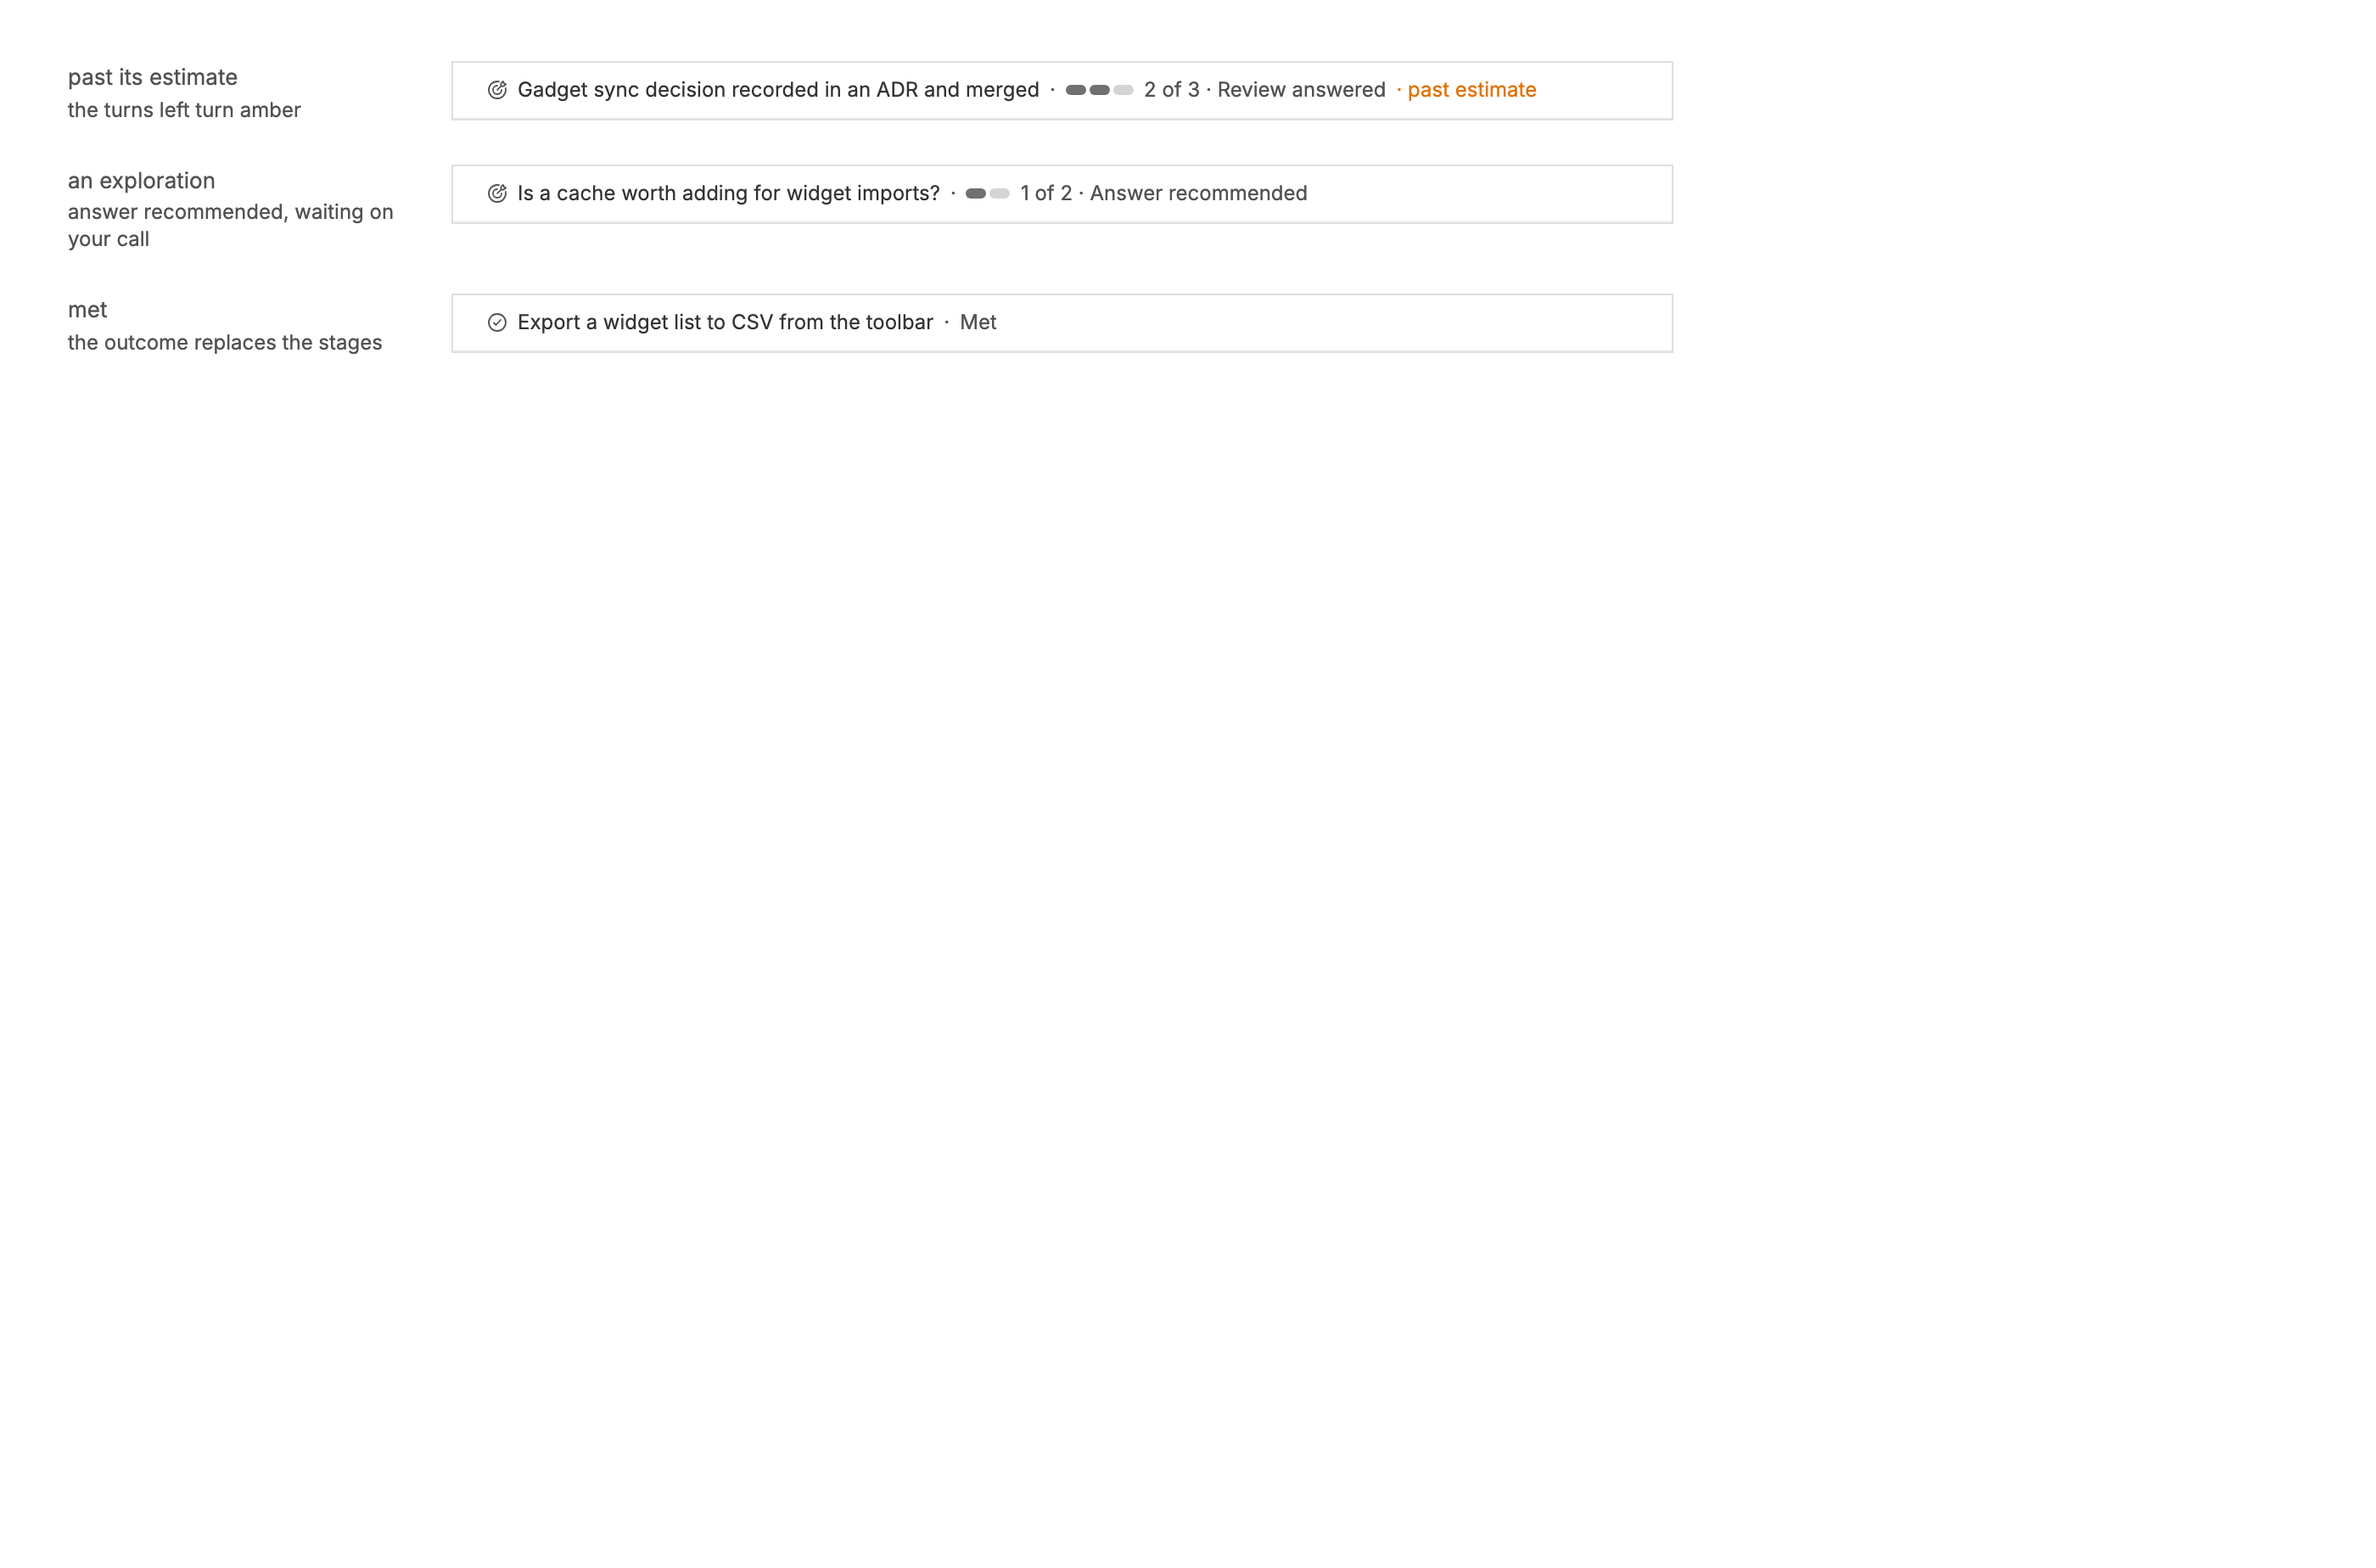
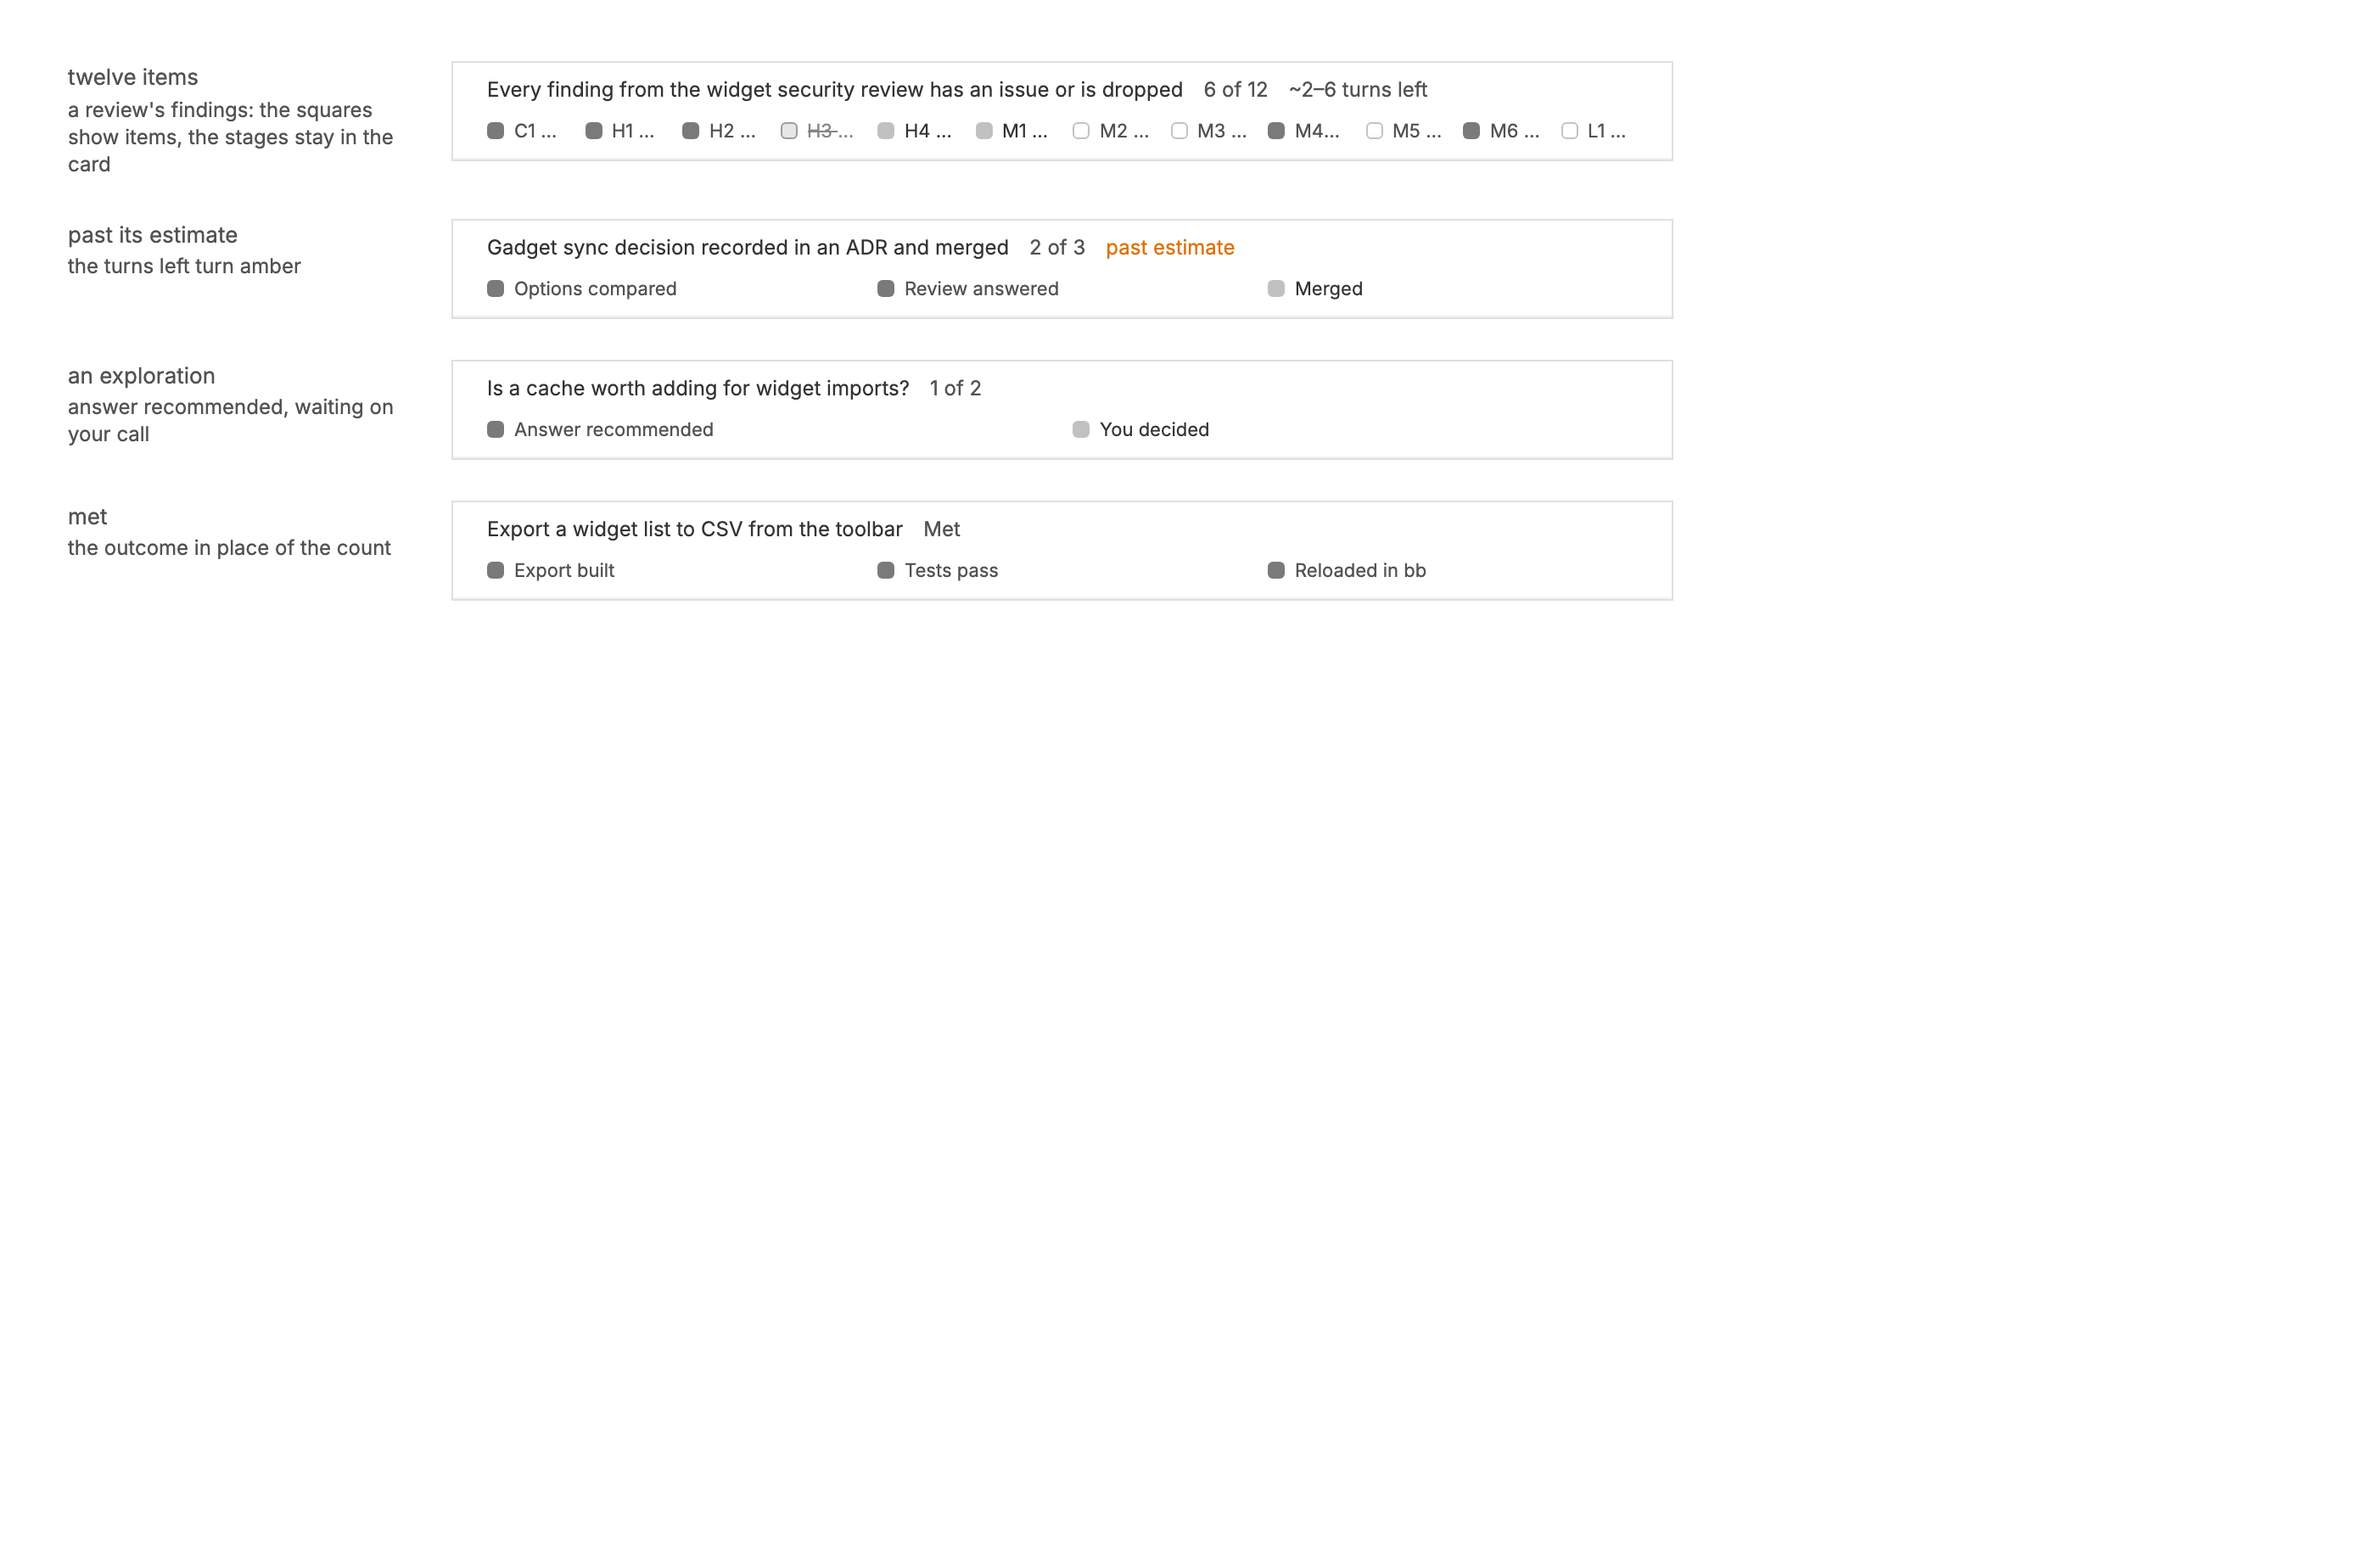
0f94872 Tokenomics: goal band shows a square and name per stage, and goals can hold items
danielbachhuber/bb-plugins@0f94872621e131deb06d4339d3c47f3dc1071128

Captured with uncommitted changes in the bb-plugins checkout.

diff --git a/tokenomics/README.md b/tokenomics/README.md
@@ -10,19 +10,19 @@ Source: [`bb-plugin-tokenomics`](https://github.com/danielbachhuber/bb-plugins/t
 
 ### Goal band in thread
 
-The goal band between the thread header and the conversation, which scrolls under it: the goal, a segment per stage, the stage reached, and the turns left.
+The goal band between the thread header and the conversation, which scrolls under it: the goal, how far it has come, and the turns left, then a square and name per stage.
 
 ![Goal band in thread](goals--goal-band-in-thread.png)
 
 ### Goal band states
 
-The band past its estimate, and once the goal is met.
+The band past its estimate, with twelve items in place of the stages, and once the goal is met.
 
 ![Goal band states](goals--goal-band-states.png)
 
 ### Goal card open
 
-The card that opens on the band: the stages, what the goal has used against its estimate, and how to change it.
+The card that opens on the band: the stages, any items, what the goal has used against its estimate, and how to change it.
 
 ![Goal card open](goals--goal-card-open.png)
 
